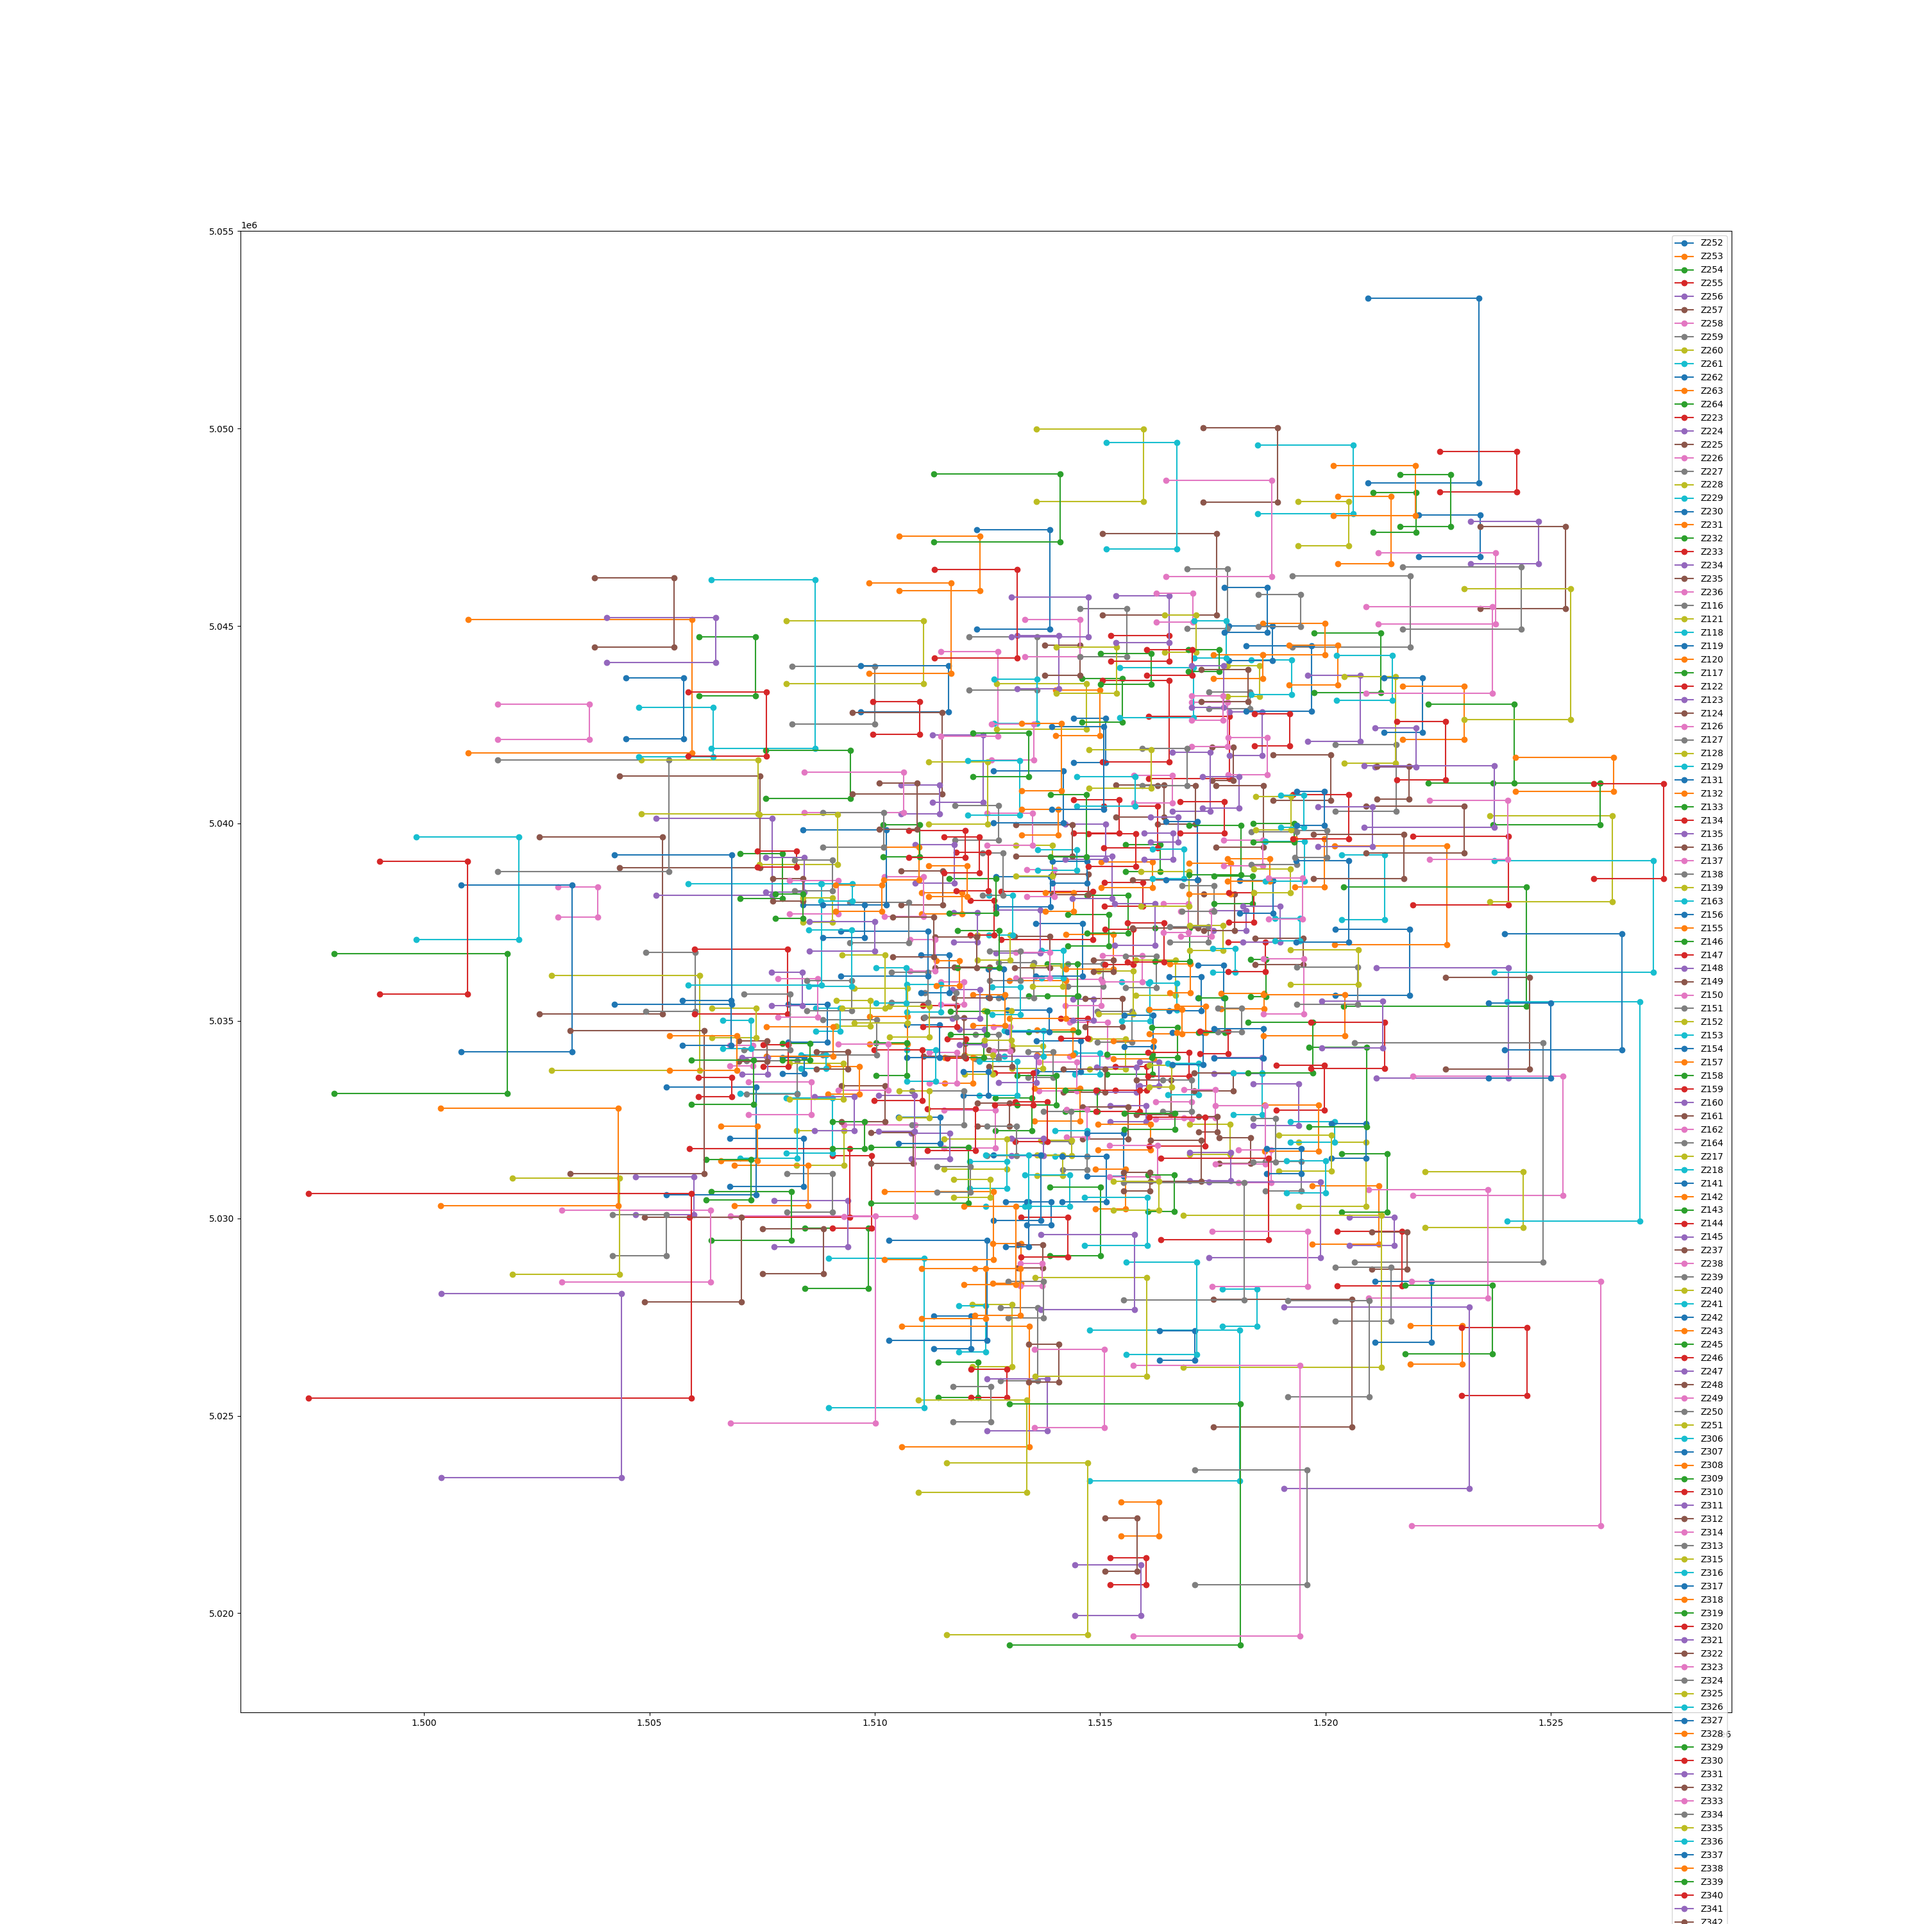
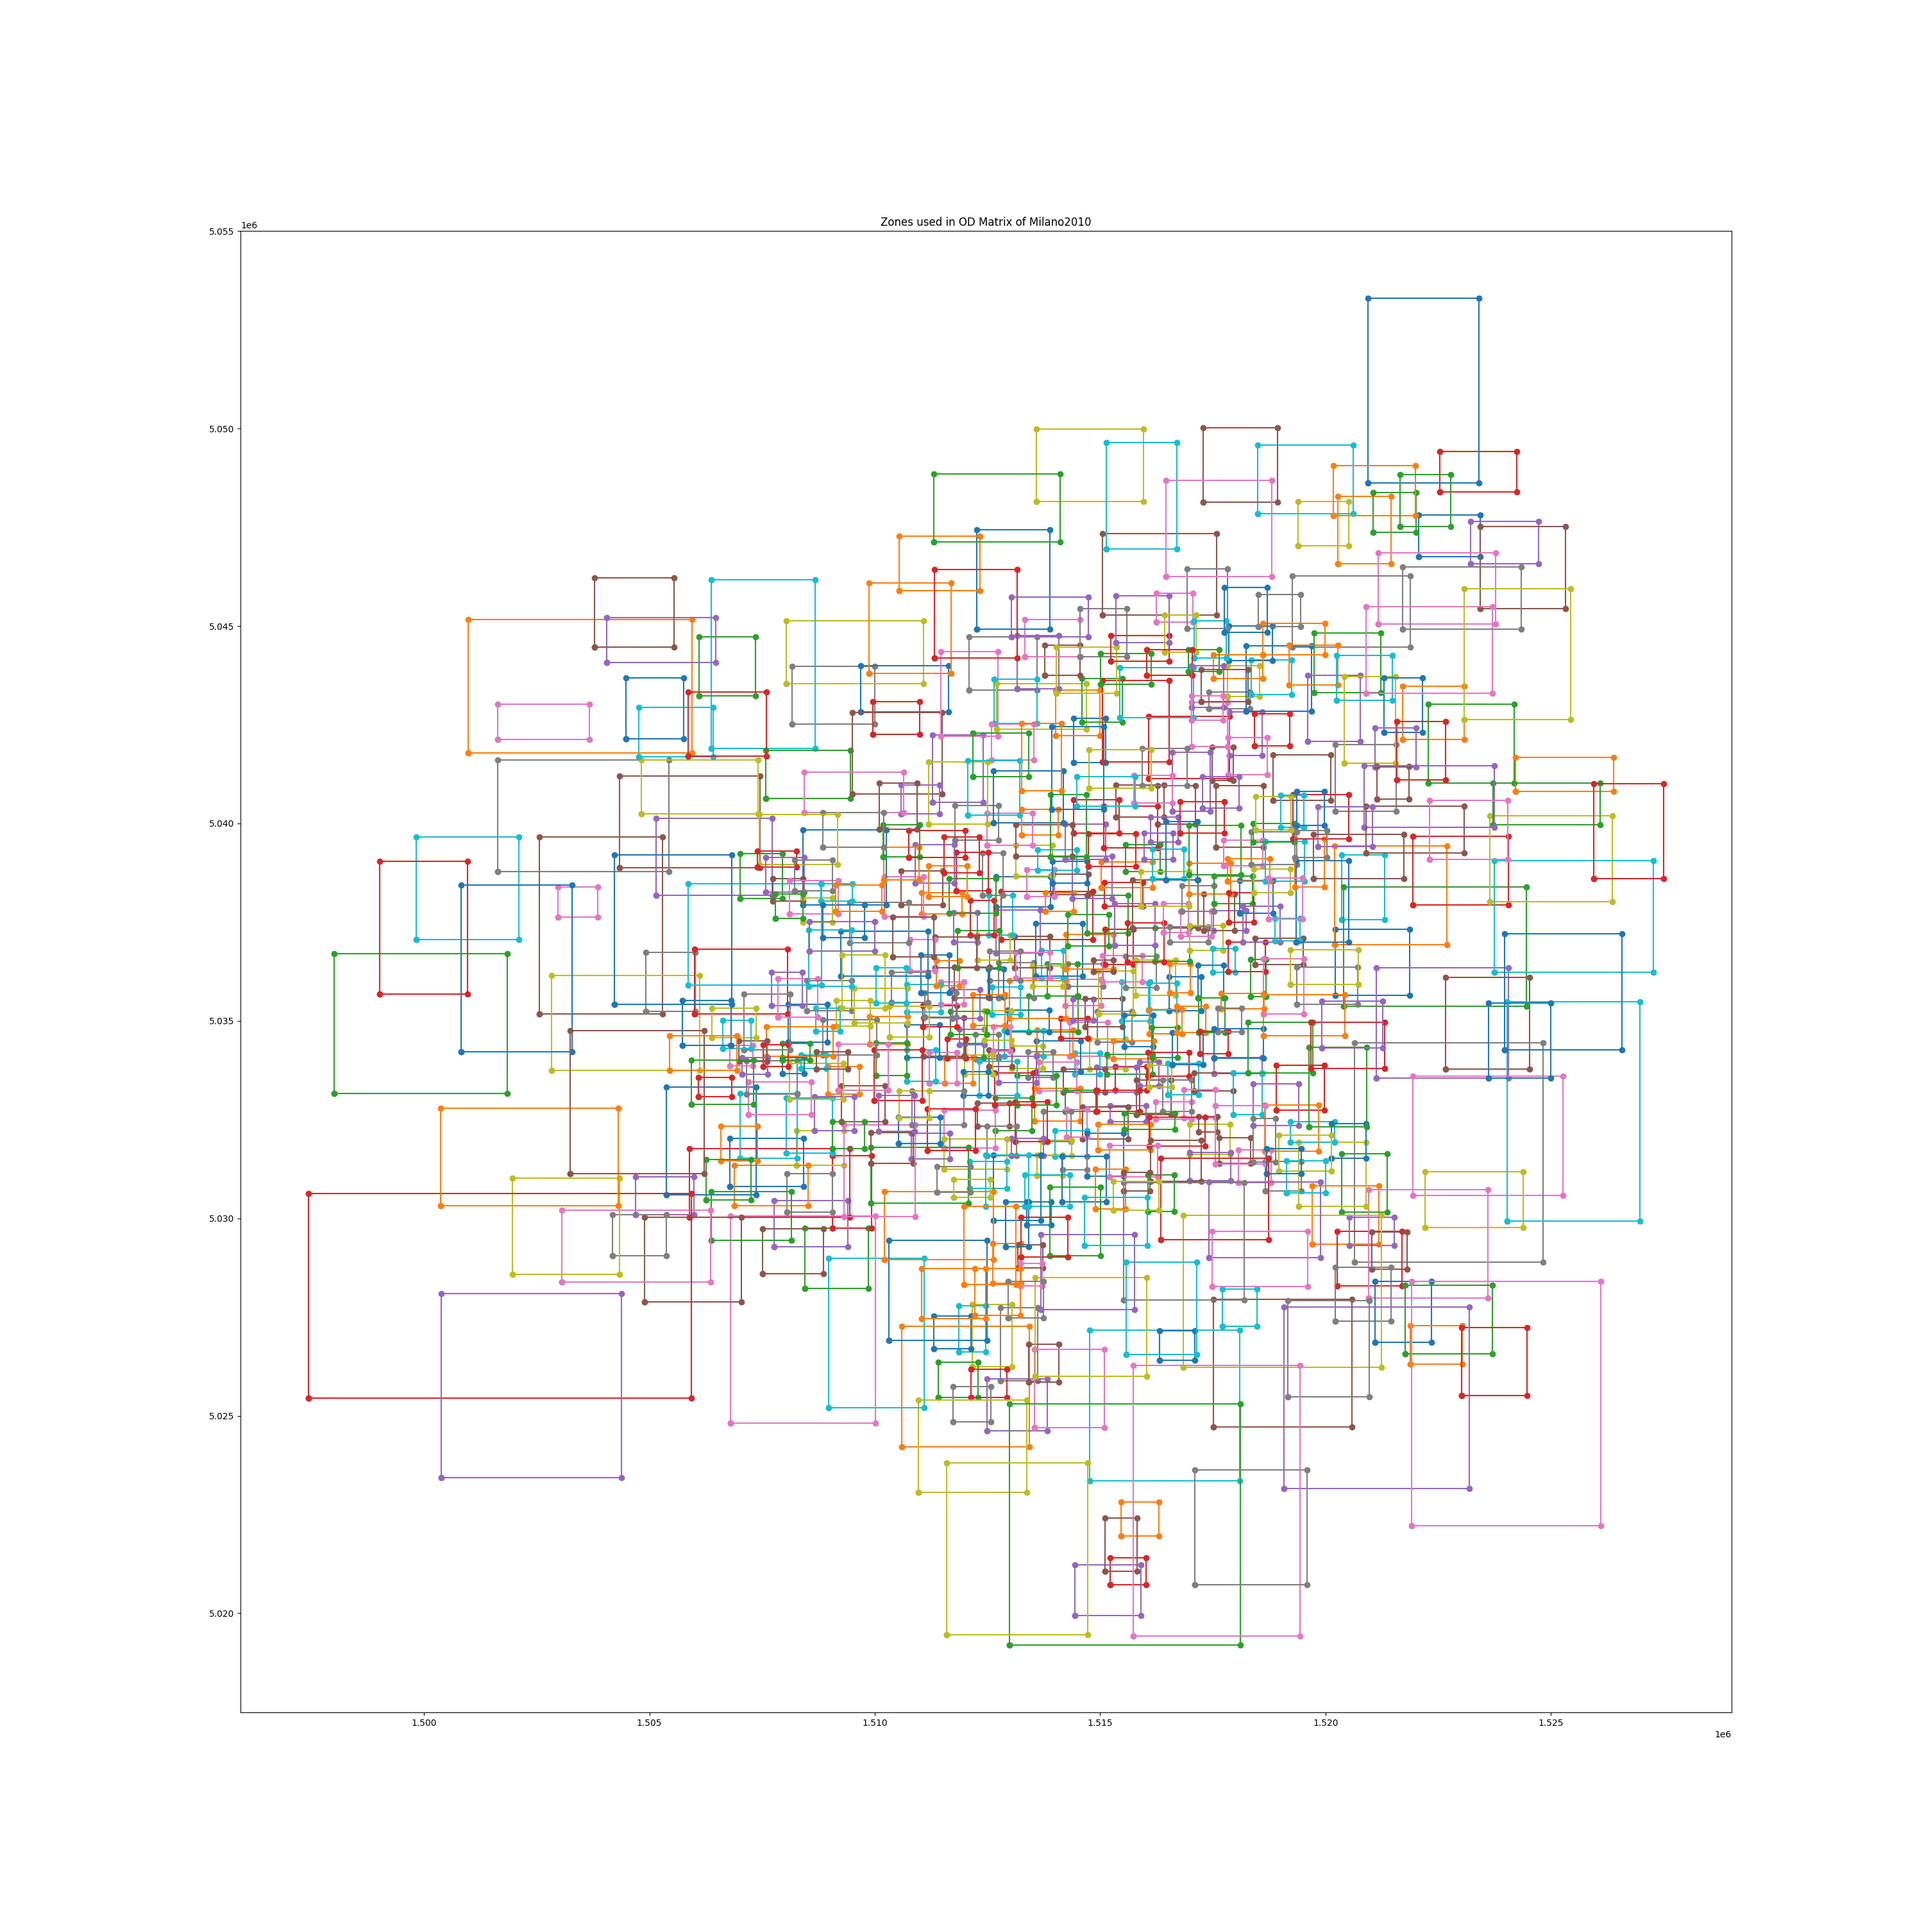
more

Changed region(s): [[0.868, 0.124, 0.899, 1.0]]

diff --git a/chapters/traffic-science.tex b/chapters/traffic-science.tex
@@ -68,7 +68,7 @@ Where space isn't enough for two-way roads with dedicated lanes, often a good so
 
 \paragraph{Cloverleafs}
 
-Intersections can be built in the form of \textit{cloverleafs} to remove entirely conflicts from crossing flows. While this offer high capacity and speed, it requires excessive land usage and cannot be built in urban context without erasing entire neighborhoods. (FOTO: Confronto tra centro di Siena e cloverleaf).
+Intersections can be built in the form of \textit{cloverleafs} to remove entirely conflicts from crossing flows. While this offer high capacity and speed, it requires excessive land usage (as can be seen in figure \ref{fig:houston-interchange-siena}) and cannot be built in urban context without erasing entire neighborhoods.
 
 \paragraph{Precedence rule}
 
@@ -102,8 +102,8 @@ The two subsections answer two diffent aspects of demand modeling: space and tim
 \subsection{Where?}
 
 In \textit{Origin-destination matrices} (\textbf{OD Matrix}) every cell contains a number representing the approximate demand of transit vehicles from a zone A to a zone B. Depending of the scale of the simulation, zones can be regions, provinces, cities or urban districts.
-For example, the Lombardy region yearly analyze traffic and demand between its cities in order to plan maintenance and improvements in its regional road network.
-It is useful that zones partition the area of interest without intersections, otherwise data could be distorted. This is often the case of urban contexts: for example Agenzia Mobilita' Ambiente e Territorio of Milan (AMAT) in 2010 had modeled the urban transit demand of the city of Milan but the zones used for OD matrix are not clearly distinguished (it can be seen in \ref{fig:odzones-milano-2010}) and therefore the matrix has to be taken with coarse-grain granularity.
+For example, the Lombardy region yearly analyze traffic and demand \cite{ODLombardia2014} between its cities in order to plan maintenance and improvements in its regional road network.
+It is useful that zones partition the area of interest without intersections, otherwise data could be distorted. This is often the case of urban contexts: for example Agenzia Mobilita' Ambiente e Territorio of Milan (AMAT) in 2010 \cite{ODMilano2010} had modeled the urban transit demand of the city of Milan but the zones used for OD matrix are not clearly distinguished (it can be seen in \ref{fig:odzones-milano-2010}) and therefore the matrix has to be taken with coarse-grain granularity.
 Nonetheless, counting vehicles and inferring their origin destination it not an easy activity \cite{bell1983estimation}.
 
 \subsection{When?}
@@ -116,17 +116,17 @@ What happens during working days is that there are two major peaks, one in the m
 Recently it has emerged also another phenomenon called \textit{third rush hour}, which is the peak during midday due to trips with private vehicles in order to have lunch.
 %% Creare un sketch grafico di come si comporta il traffico, magari da sovrapporre a quelli
 
-\section{Assumptions}
+\section{Settings and assumptions}
 
-% Only cars
-% Synthetic data
-% Baseline traffic lights are using green-wave mode of operation
-% Synthetic queues
-
-\section{Scenarios}
-
-% Breda
-% Celoria
+% Assumptions
+%% Only cars
+%% Two peak rush hours
+%% Synthetic data
+%% Artificial queues
+%% Baseline traffic lights are using green-wave mode of operation
+% Settings
+%% Breda
+%% Celoria
 
 \section{Figures}
 
@@ -153,8 +153,15 @@ Recently it has emerged also another phenomenon called \textit{third rush hour},
 
 \begin{figure}[h]
     \centering
+    \includegraphics[width=0.75\linewidth]{figures/houston-interchange-siena.png}
+    \caption{Comparison between a cloverleaf in Houston, USA, and the city center of Siena, Italy. Source: \href{https://www.reddit.com/r/geography/comments/193ryy5/siena_compared_to_highway_interchange_in_houston/}{r/geography}}
+    \label{fig:houston-interchange-siena}
+\end{figure}
+
+\begin{figure}[h]
+    \centering
     \includegraphics[width=0.75\linewidth]{figures/ODZones.Show.Milano2010.png}
-    \caption{Traffic levels from OD Matrix of Milan in 2010}
+    \caption{OD Zones used within the 2010 Milano AMAT model}
     \label{fig:odzones-milano-2010}
 \end{figure}
 
